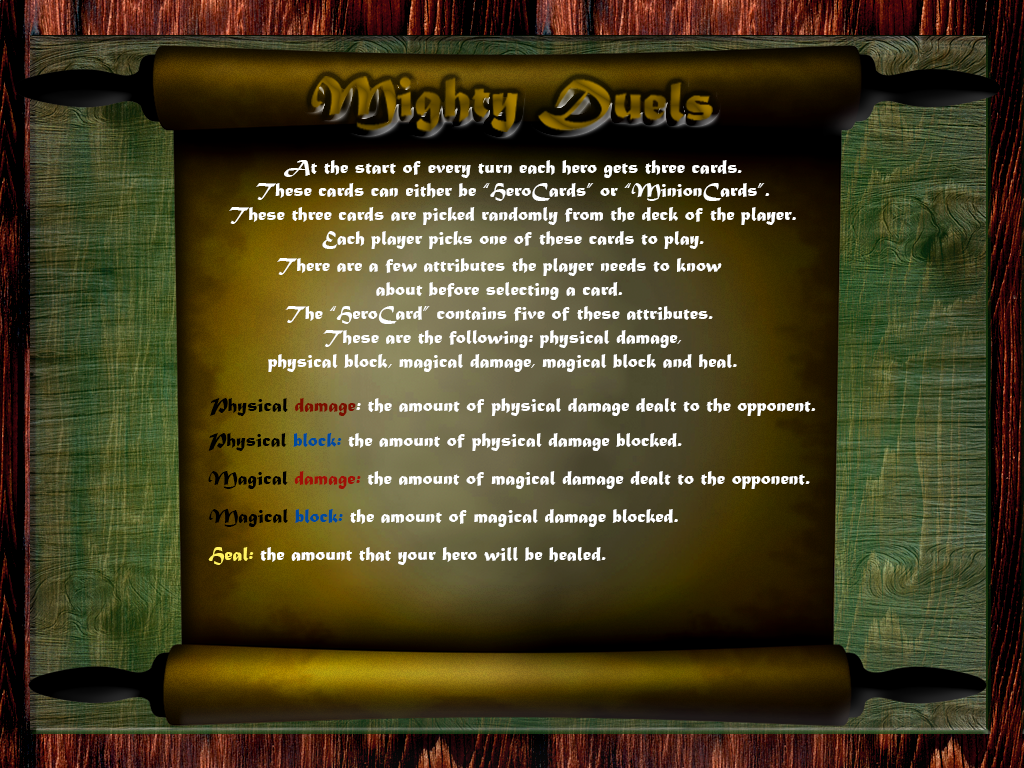
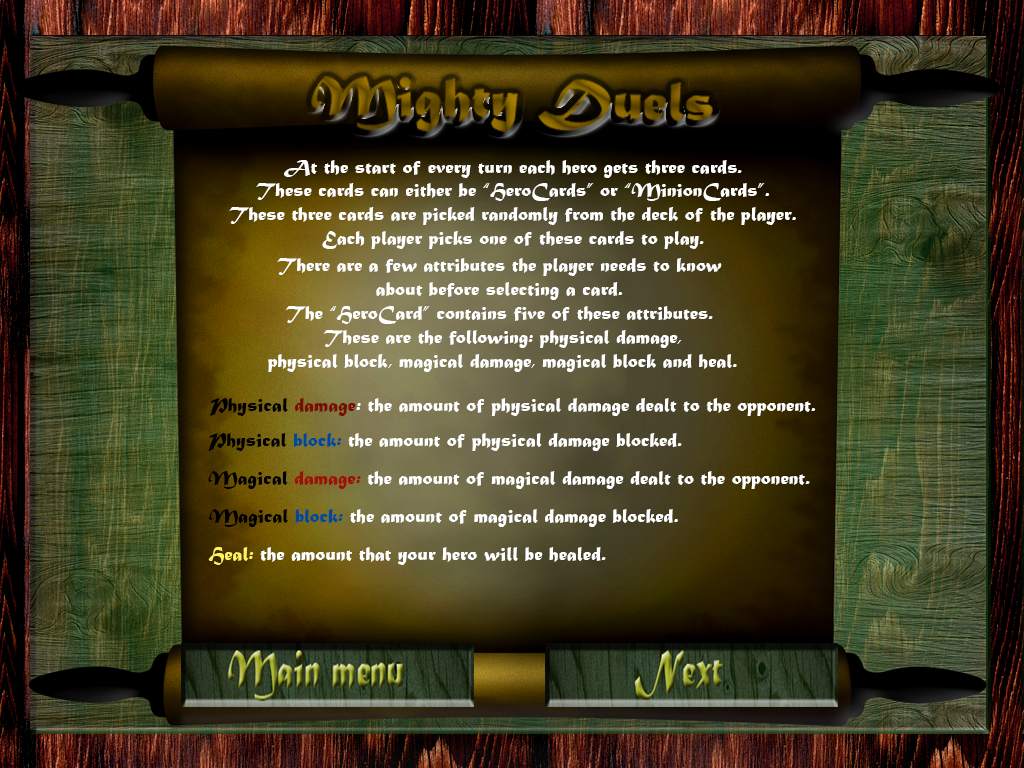
tutorial pagina finalized

Changed region(s): [[0.1562, 0.8125, 0.4688, 0.9375], [0.5312, 0.8438, 0.8438, 0.9375]]

diff --git a/src/Client/GUI/TutorialFXMLController.java b/src/Client/GUI/TutorialFXMLController.java
@@ -39,9 +39,13 @@ public class TutorialFXMLController implements Initializable {
      * Button for the next pages
      */
     @FXML
-    private Button btnNextPage;
+    private Button btnNext;
     @FXML
-    private Button btnMainMenu;
+    private Button btnMain;
+    @FXML
+    private ImageView imNext;
+    @FXML
+    private ImageView imMain;
 
     private int pagecounter;
 
